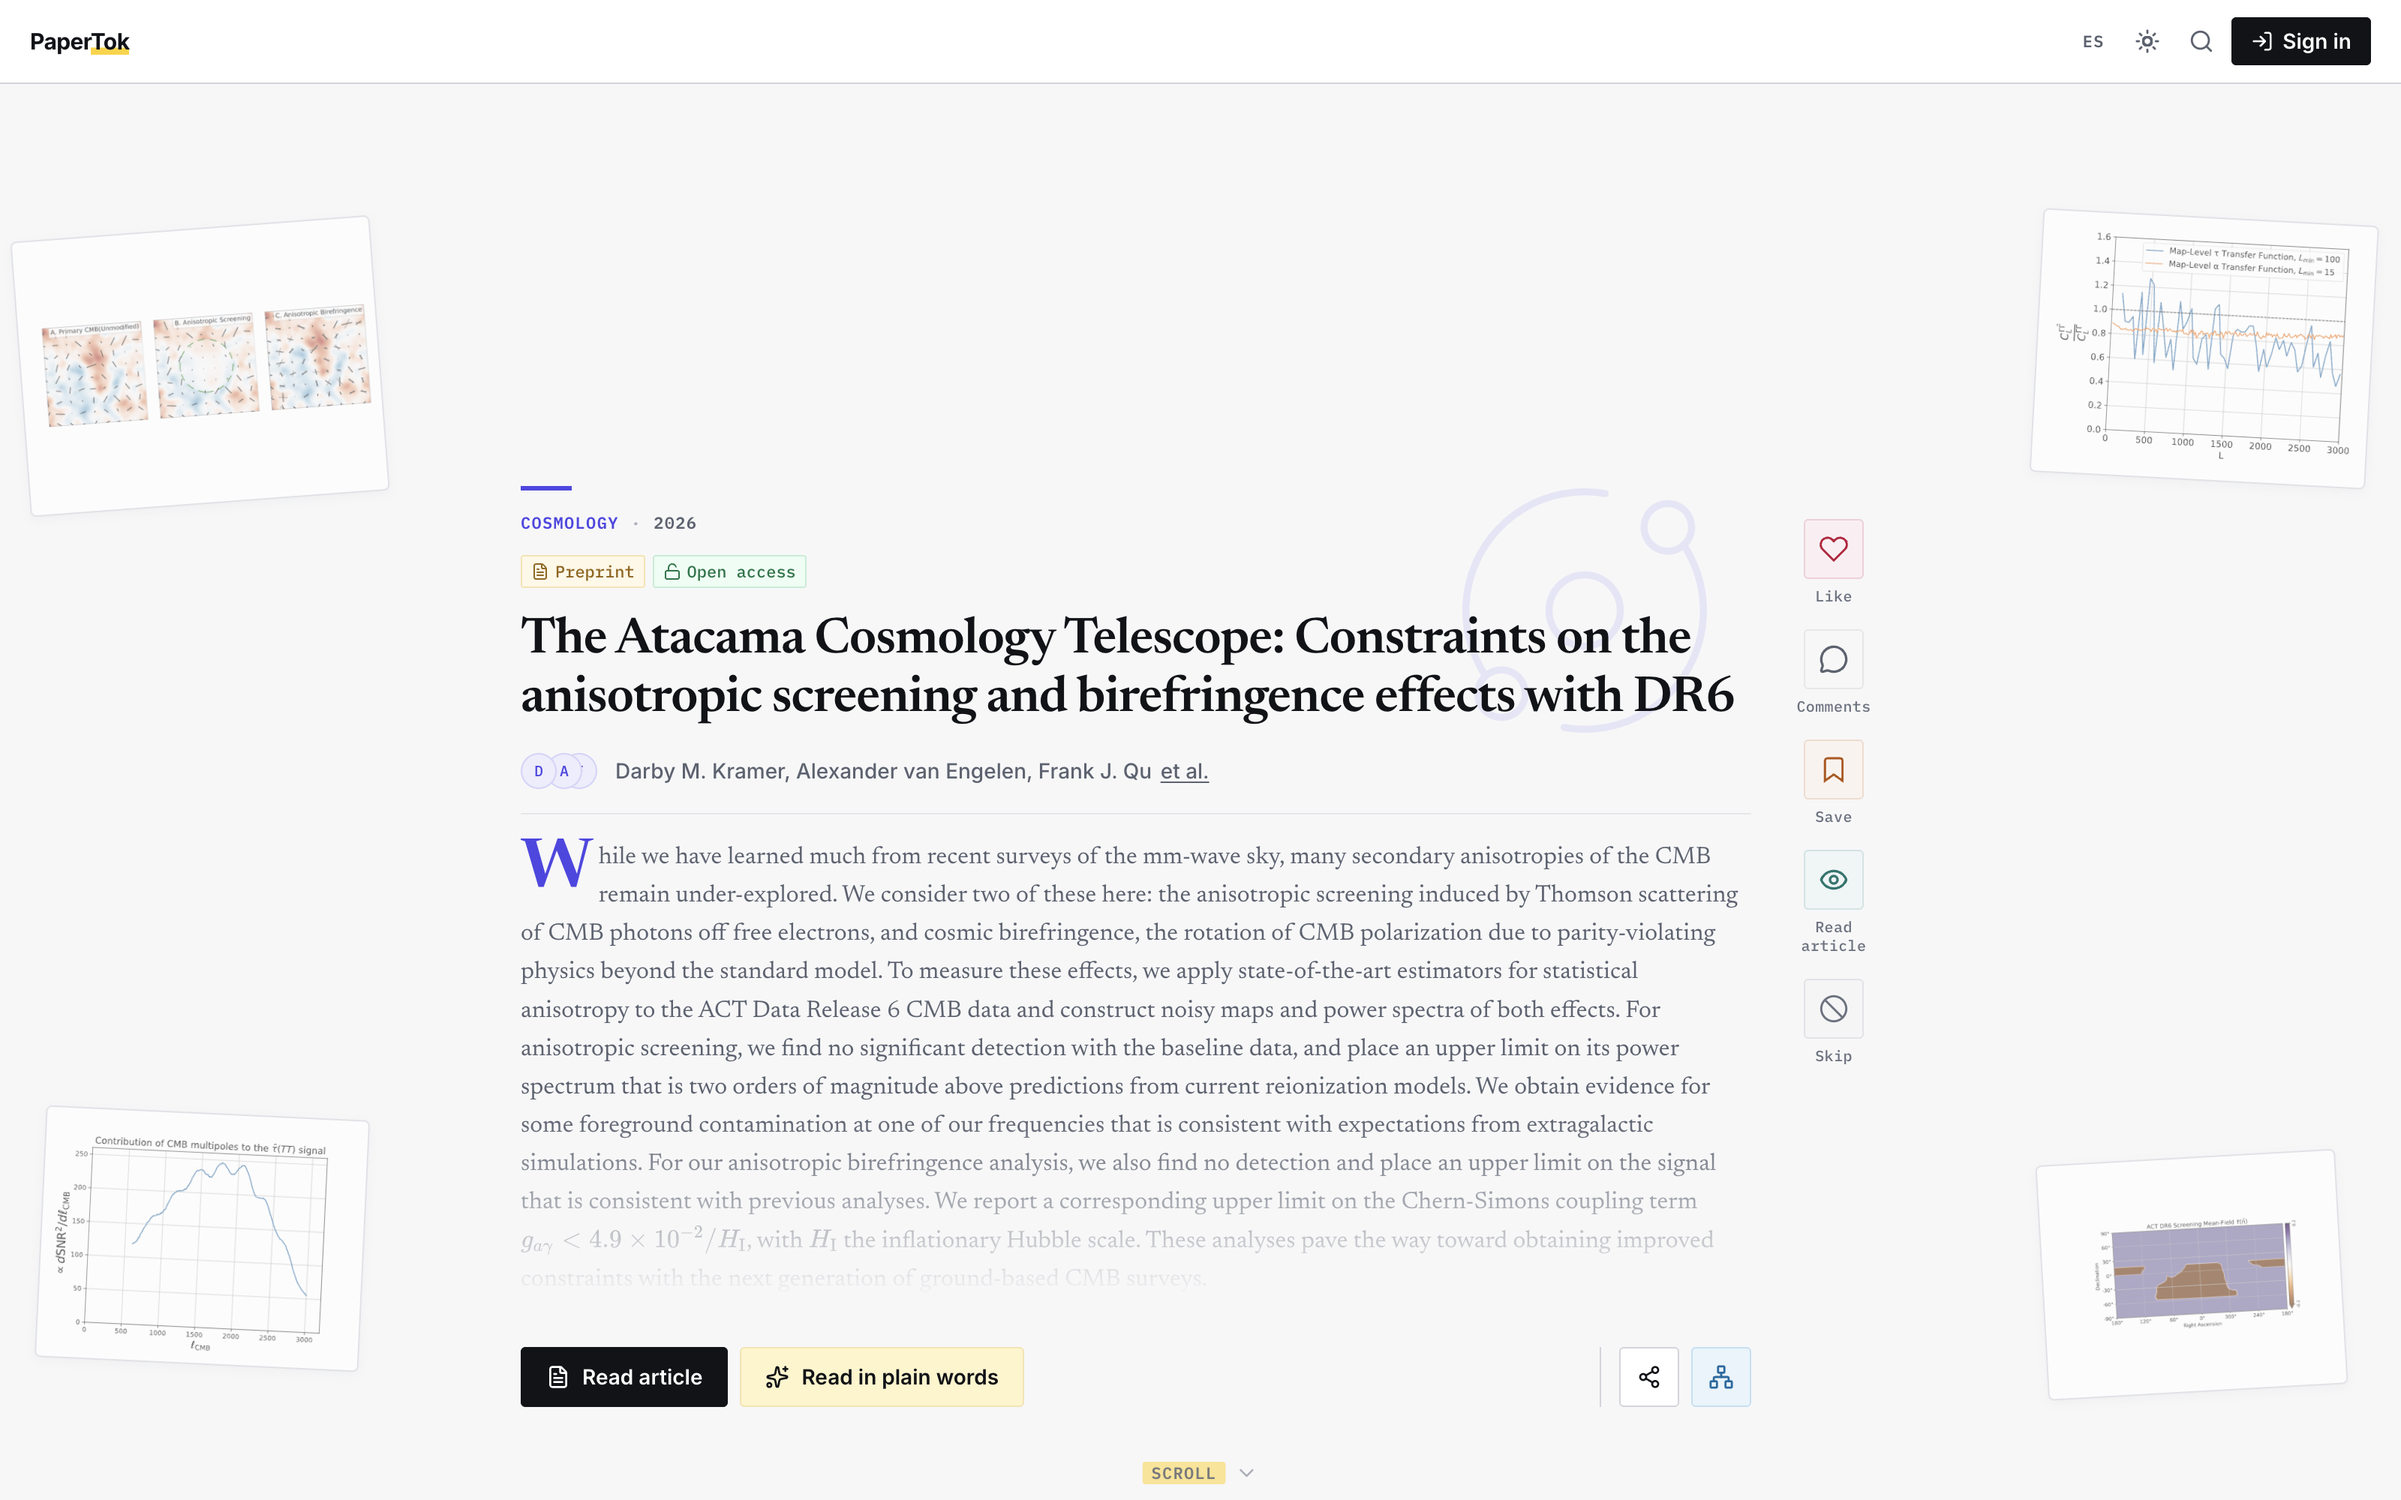
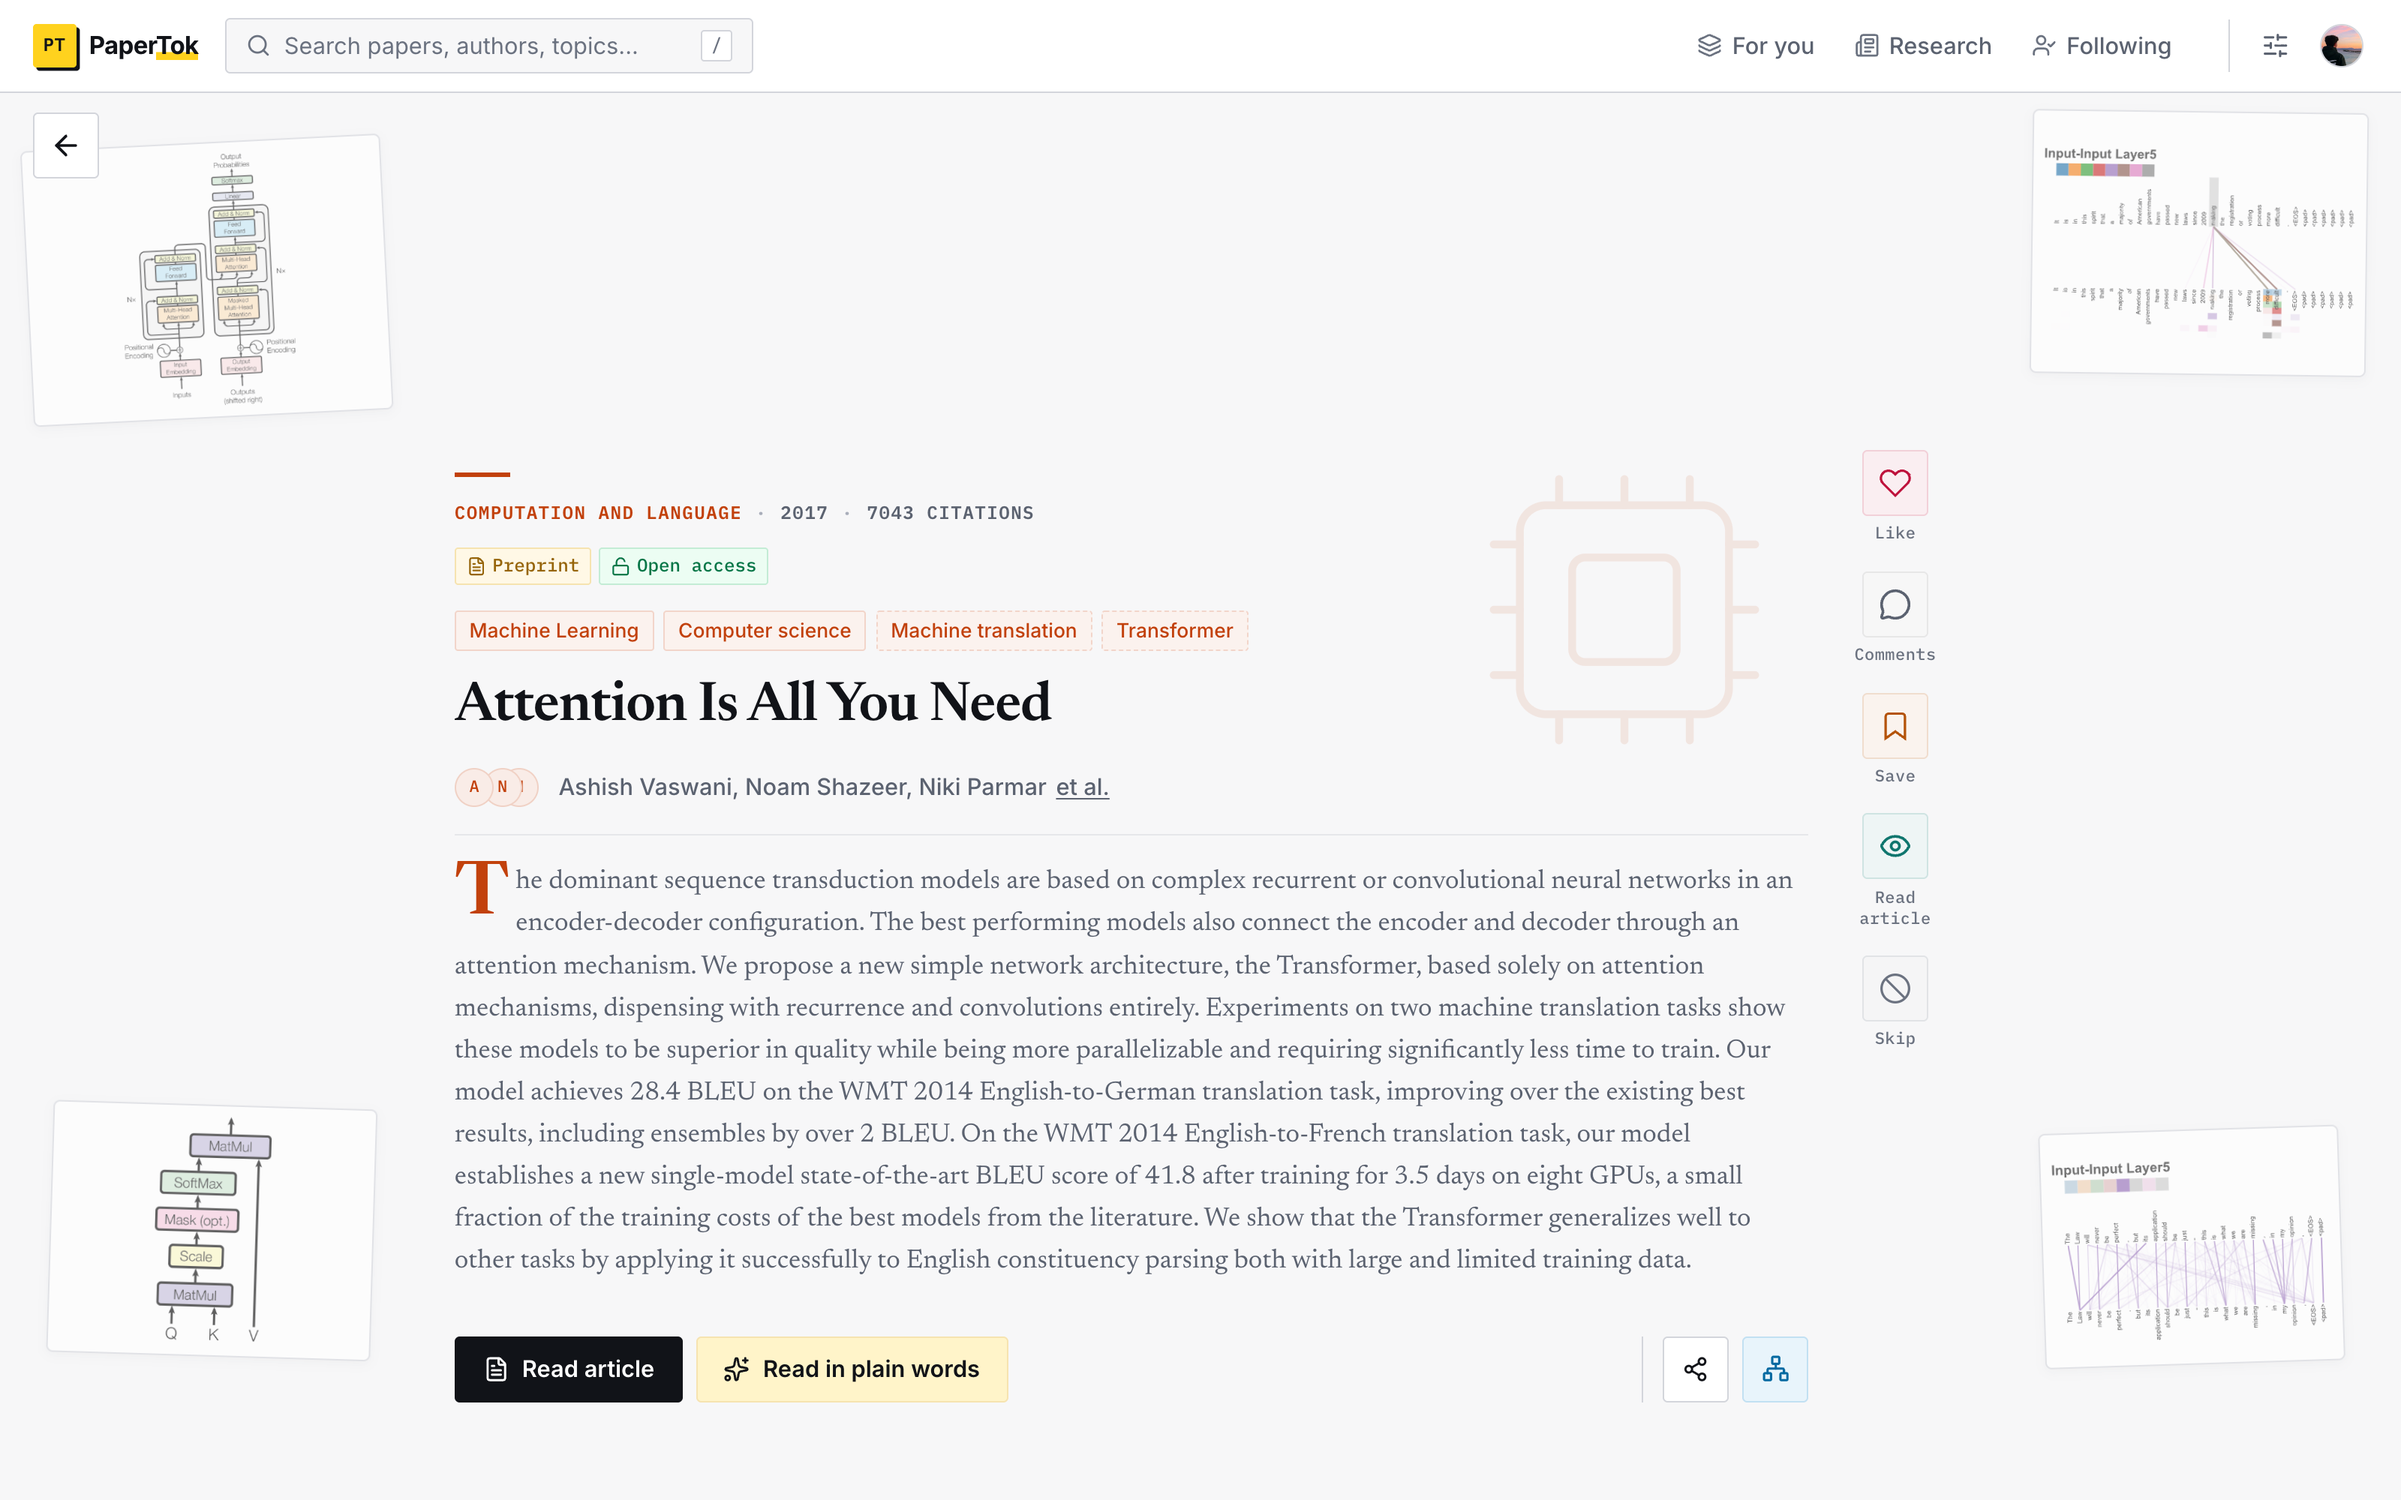
feat(video): capturas reales de la app con sesión y registro de captura

diff --git a/video/scripts/capture.md b/video/scripts/capture.md
@@ -1,0 +1,26 @@
+# Registro de capturas — 2026-08-30
+
+Todas via CDP (puerto 9223, perfil `/tmp/papertok-capture-profile`) con
+`scripts/capture.mjs` (navega y captura) y `scripts/shot.mjs` (interactúa y
+captura sin recargar). Viewport CSS 1600×1000 salvo indicación. La app usa
+HashRouter: navegar exige recargar (`location.href=…; location.reload()`),
+un cambio de hash sin recarga rompe la SPA («Something went wrong»).
+
+| Fichero | URL / interacción | Scale | Dimensiones |
+|---|---|---|---|
+| `arxiv-list.png` | <https://arxiv.org/list/cs.LG/recent> (Chrome headless, `--force-device-scale-factor=4`, viewport 1600×1000) | 4 | 6400×4000 |
+| `feed-a.png` | `#/public/paper/YXJ4aXY6MTcwNi4wMzc2Mg` (arxiv:1706.03762, «Attention Is All You Need»), sesión iniciada | 2 | 3200×2000 |
+| `feed-b.png` | `#/public/paper/` de arxiv:2005.14165 («Language Models are Few-Shot Learners») | 2 | 3200×2000 |
+| `reader-clean.png` | Desde feed-b: botón «Read article» → PdfModal con el PDF de arXiv, página 1. Sin respuesta IA | 2 | 3200×2000 |
+| `lists-modal.png` | Desde feed-b: botón «Save» → modal «Save and organize» | 2 | 3200×2000 |
+| `lists-grid.png` | `#/lists` («My lists»: Favorites 9, Read later 0, Reading history 3) | 2 | 3200×2000 |
+| `explorer-author.png` | `#/explorer/author/Kenneth%20P.%20Bogart?arxivId=openalex:W2340364767` | 2 | 3200×2000 |
+| `explorer-concepts.png` | `#/explorer/topic/T10682` (Quantum Computing Algorithms and Architecture), llegado desde búsqueda «Quantum computing» → Topics | 2 | 3200×2000 |
+| `research-report.png` | `#/research` con panel Refine abierto, países United States y Spain seleccionados (mapa coloreado), viewport 1600×2400 | 2 | 3200×4800 |
+
+Notas:
+- La clave de `#/public/paper/` es base64url de `arxiv:<id>` (`Buffer.from('arxiv:1706.03762').toString('base64url')`).
+- El banner de analítica se descartó con «Dismiss and do not allow» (persistente en el perfil).
+- El feed «For you» de la cuenta mostraba libros antiguos sin figuras; por eso
+  feed-a/feed-b son páginas públicas de paper (idéntico layout de tarjeta, con
+  figuras flotantes).
